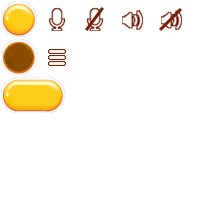
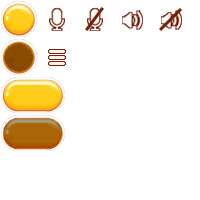
Add hover to UI buttons Change text rendering for UI buttons to use browser text rendering

Changed region(s): [[0.0, 0.57, 0.33, 0.75]]

diff --git a/game/ui/ui-button.js b/game/ui/ui-button.js
@@ -16,38 +16,60 @@ class Button extends UIElement {
 
   initObject() {
     this.button = createElement('div', { className: 'game-btn' });
+    this.contentArea = createElement('div', { className: 'game-btn-inner' });
+    this.button.appendChild(this.contentArea);
     this.node.appendChild(this.button);
     this.redraw();
+
+    this.button.addEventListener('mouseenter', () => {
+      this.hover = true;
+      this.redraw();
+    });
+
+    this.button.addEventListener('mouseleave', () => {
+      this.hover = false;
+      this.redraw();
+    });
   }
 
   redraw() {
-    const canvas = document.createElement('canvas');
-    const ctx = canvas.getContext('2d');
     const { width, height } = this;
-
-    if (!this.hover && this.isBackgroundValid()) {
-      this.background.drawAt(ctx, 0, 0, width, height);
-    } else if (!this.hover) {
-      SpriteManager.getInstance().getSprite('button').drawAt(ctx, 0, 0, width, height);
-    } else if (this.hover && this.isHoverBackgroundValid()) {
-      this.hoverBackground.drawAt(ctx, 0, 0, width, height);
-    } else if (this.hover && !this.isHoverBackgroundValid() && this.isBackgroundValid()) {
-      this.background.drawAt(ctx, 0, 0, width, height);
-    } else {
-      SpriteManager.getInstance().getSprite('button-shaded').drawAt(ctx, 0, 0, width, height);
-    }
+    const backImg = this.drawImage((ctx) => {
+      if (!this.hover && this.isBackgroundValid()) {
+        this.background.drawAt(ctx, 0, 0, width, height);
+      } else if (!this.hover) {
+        SpriteManager.getInstance().getSprite('button').drawAt(ctx, 0, 0, width, height);
+      } else if (this.hover && this.isHoverBackgroundValid()) {
+        this.hoverBackground.drawAt(ctx, 0, 0, width, height);
+      } else if (this.hover && !this.isHoverBackgroundValid() && this.isBackgroundValid()) {
+        this.background.drawAt(ctx, 0, 0, width, height);
+      } else {
+        SpriteManager.getInstance().getSprite('button-shaded').drawAt(ctx, 0, 0, width, height);
+      }
+    });
+    this.button.style.background = backImg;
 
     const { content } = this;
     if (content.drawAt !== undefined) {
-      content.drawAt(ctx, (width - content.width) / 2, (height - content.height) / 2);
+      const contentImg = this.drawImage((ctx) => {
+        content.drawAt(ctx, (width - content.width) / 2, (height - content.height) / 2);
+      });
+      this.contentArea.style.background = contentImg;
     } else if (typeof content === 'string') {
-      ctx.font = '16px Arial';
-      ctx.fillStyle = '#000';
-      const textWidth = ctx.measureText(content).width;
-      ctx.fillText(content, (width - textWidth) / 2, (height - 16) / 2 + 10);
+      this.contentArea.textContent = content;
+      this.contentArea.style.color = '#000';
     }
+  }
 
-    this.button.style.background = `url('${canvas.toDataURL()}')`;
+  drawImage(drawFunc) {
+    const canvas = document.createElement('canvas');
+    const ctx = canvas.getContext('2d');
+    const { width, height } = this;
+    canvas.width = width;
+    canvas.height = height;
+
+    drawFunc(ctx);
+    return `url('${canvas.toDataURL()}')`;
   }
 
   setContent(content) {
@@ -81,7 +103,8 @@ class Button extends UIElement {
 
 class LongButton extends Button {
   constructor(marginX, marginY, width, height, anchor, content) {
-    super(marginX, marginY, width, height, anchor, content, SpriteManager.getInstance().getSprite('button-long'));
+    super(marginX, marginY, width, height, anchor, content, SpriteManager.getInstance().getSprite('button-long'),
+      SpriteManager.getInstance().getSprite('button-long-shaded'));
   }
 }
 

diff --git a/game/workers/asset-loader.js b/game/workers/asset-loader.js
@@ -63,6 +63,18 @@ export default function loadAssets() {
           [47, 94, 18, 19],
         ]);
         spriteManager.registerSprite('button-long', longBtn);
+        const longBtnDark = SlicedSprite.from(x, [
+          [1, 115, 18, 15],
+          [19, 115, 28, 15],
+          [47, 115, 18, 15],
+          [1, 130, 18, 2],
+          [19, 130, 28, 2],
+          [47, 130, 18, 2],
+          [1, 132, 18, 19],
+          [19, 132, 28, 19],
+          [47, 132, 18, 19],
+        ]);
+        spriteManager.registerSprite('button-long-shaded', longBtnDark);
       });
 
     Promise.all([load1, load2, load3, load4]).then(resolve);

diff --git a/game/game-style.css b/game/game-style.css
@@ -61,4 +61,19 @@
 .game-btn {
   width: 100%;
   height: 100%;
+  position: relative;
+  z-index: 10;
+}
+
+.game-btn-inner {
+  position: absolute;
+  width: 100%;
+  height: 100%;
+  z-index: 11;
+  pointer-events: none;
+  font-size: 16px;
+  display: flex;
+  flex-direction: column;
+  justify-content: center;
+  text-align: center;
 }
